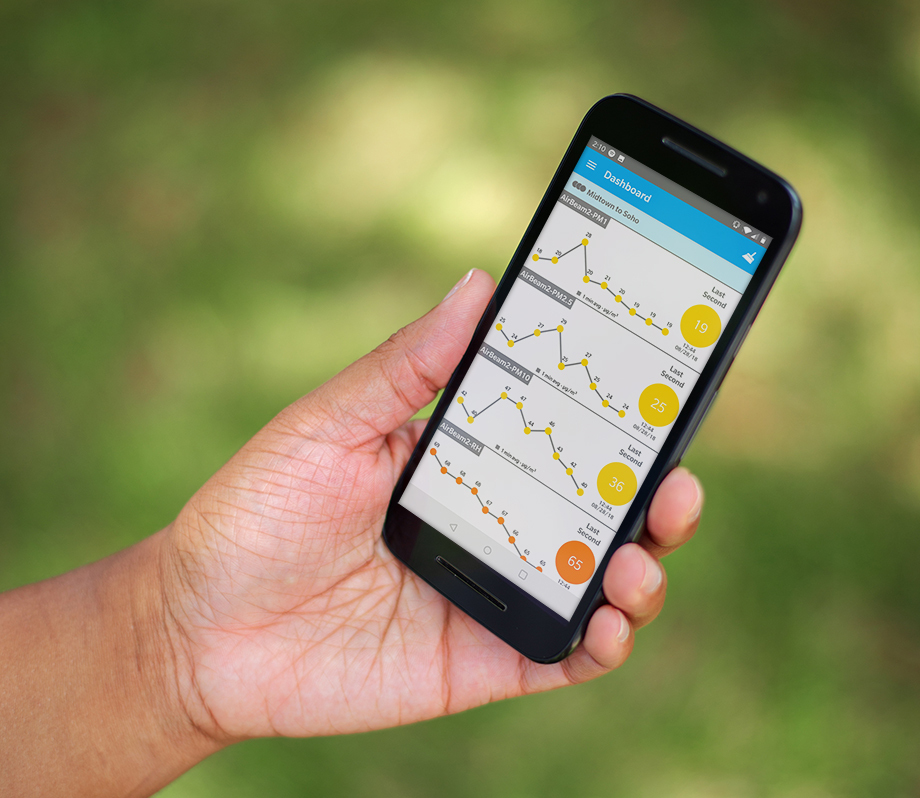
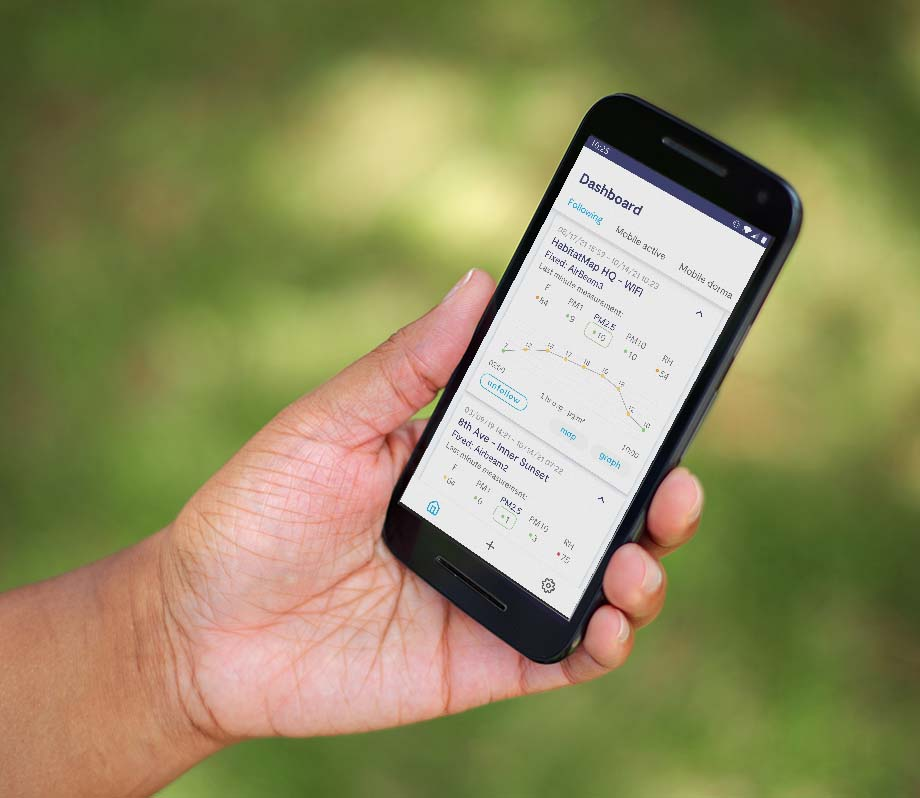
Image updates for ab3 and new app

Changed region(s): [[0.4261, 0.1504, 0.8522, 0.782]]

diff --git a/pages/airbeam/users-guide.md b/pages/airbeam/users-guide.md
@@ -111,18 +111,13 @@ image: /assets/img/about-airbeam-01.jpg
   </h2>
 
   <ol class="list list--ordered p--body">
-    <li>Download the AirCasting app from the Google Play store or Apple App Store.</li>
+    <li>Download the AirCasting app from the <a href='https://play.google.com/store/apps/details?id=pl.llp.aircasting&%3Cli%3Ehl=en&pcampaignid=pcampaignidMKT-Other-global-all-co-prtnr-py-PartBadge-Mar2515-1'>Google Play store</a> or <a href='https://apps.apple.com/us/app/aircasting/id1587685281#?platform=iphone'>Apple App Store.</a></li>
     <li>Launch the app and sign in or create a profile.</li>
     <li>Tap the “+” button at the bottom of the screen then tap “Mobile session” and follow the on screen instructions.</li>
   </ol>
 
   <p class="p--body">
     When recording a mobile session with AirBeam3, measurements are communicated once a second to the AirCasting app via Bluetooth. The device running the AirCasting app must stay within 10-20 feet of the AirBeam3 to maintain the Bluetooth connection and receive data from the AirBeam3. After recording a mobile session for more than 2 hours, your measurements will be integrated into 5-second averages. After recording a mobile session for more than 9 hours, your measurements will be integrated into 1-minute averages.
-  </p>
-
-  <p class="p--body">
-    <a href='https://play.google.com/store/apps/details?id=pl.llp.aircasting&%3Cli%3Ehl=en&pcampaignid=pcampaignidMKT-Other-global-all-co-prtnr-py-PartBadge-Mar2515-1'>Google Play store</a><br>
-    <a href='https://apps.apple.com/us/app/aircasting/id1587685281#?platform=iphone'>Apple App Store</a>
   </p>
 
   <a id="record-wifi" class="anchor">
@@ -132,18 +127,13 @@ image: /assets/img/about-airbeam-01.jpg
   </h2>
 
   <ol class="list list--ordered p--body">
-    <li>Download the AirCasting app from the Google Play store or Apple App Store.</li>
+    <li>Download the AirCasting app from the <a href='https://play.google.com/store/apps/details?id=pl.llp.aircasting&%3Cli%3Ehl=en&pcampaignid=pcampaignidMKT-Other-global-all-co-prtnr-py-PartBadge-Mar2515-1'>Google Play store</a> or <a href='https://apps.apple.com/us/app/aircasting/id1587685281#?platform=iphone'>Apple App Store.</a></li>
     <li>Launch the app and sign in or create a profile.</li>
     <li>Tap the “+” button at the bottom of the screen then tap “Fixed session” and follow the on screen instructions.</li>
   </ol>
 
   <p class="p--body">
     When recording a fixed WiFi session with AirBeam3, the measurements are communicated once a minute to the <a href="http://aircasting.habitatmap.org/fixed_map">AirCasting website</a> via WiFi. The Android or iOS device no longer needs to be in proximity to the AirBeam3 as it’s retrieving the data from the web via the Android or iOS device’s WiFi or cellular connection. AirBeam3 must be connected to the 2.4 GHz band of your WiFi network; it cannot connect via the 5 GHz band.
-  </p>
-
-  <p class="p--body">
-    <a href='https://play.google.com/store/apps/details?id=pl.llp.aircasting&%3Cli%3Ehl=en&pcampaignid=pcampaignidMKT-Other-global-all-co-prtnr-py-PartBadge-Mar2515-1'>Google Play store</a><br>
-    <a href='https://apps.apple.com/us/app/aircasting/id1587685281#?platform=iphone'>Apple App Store</a>
   </p>
 
   <a id="record-cellular" class="anchor">
@@ -154,18 +144,13 @@ image: /assets/img/about-airbeam-01.jpg
 
   <ol class="list list--ordered p--body">
     <li>Unscrew the AirBeam3 enclosure, slide your activated Nano SIM card into the SIM card slot located directly above the power switch (insert the SIM card so the chip side is against the board and the clipped corner is oriented towards the power button), then screw the AirBeam3 together again. To maintain the AirBeam3s weather resistance, screw the bottom two screws tight before tightening the top screw into the aluminum standoff; do not overtighten.</li>
-    <li>Download the AirCasting app from the Google Play store or Apple App Store.</li>
+    <li>Download the AirCasting app from the <a href='https://play.google.com/store/apps/details?id=pl.llp.aircasting&%3Cli%3Ehl=en&pcampaignid=pcampaignidMKT-Other-global-all-co-prtnr-py-PartBadge-Mar2515-1'>Google Play store</a> or <a href='https://apps.apple.com/us/app/aircasting/id1587685281#?platform=iphone'>Apple App Store.</a></li>
     <li>Launch the app and sign in or create a profile.</li>
     <li>Tap the “+” button at the bottom of the screen then tap “Fixed session” and follow the on screen instructions.</li>
   </ol>
 
    <p class="p--body">
-    When recording a fixed cellular session, the measurements are communicated once a minute to the <a href="http://aircasting.habitatmap.org/fixed_map">AirCasting website</a> via WiFi. The Android or iOS device no longer needs to be in proximity to the AirBeam3 as it’s retrieving the data from the web via the Android or IOS device’s WiFi or cellular connection. AirBeam3 data and messaging costs are approximately $25 per month when using a Ting SIM card.
-  </p>
-
-  <p class="p--body">
-    <a href='https://play.google.com/store/apps/details?id=pl.llp.aircasting&%3Cli%3Ehl=en&pcampaignid=pcampaignidMKT-Other-global-all-co-prtnr-py-PartBadge-Mar2515-1'>Google Play store</a><br>
-    <a href='https://apps.apple.com/us/app/aircasting/id1587685281#?platform=iphone'>Apple App Store</a>
+    When recording a fixed cellular session, the measurements are communicated once a minute to the <a href="http://aircasting.habitatmap.org/fixed_map">AirCasting website</a> via the 4G cellular network. The Android or iOS device no longer needs to be in proximity to the AirBeam3 as it’s retrieving the data from the web via the Android or IOS device’s WiFi or cellular connection. AirBeam3 data and messaging costs are approximately $25 per month when using a Ting SIM card.
   </p>
 
   <a id="connection" class="anchor">

diff --git a/pages/airbeam/how-it-works.md b/pages/airbeam/how-it-works.md
@@ -61,7 +61,7 @@ section: airbeam
         <span class="heading--capitilized">Measure</span>
       </h2>
       <p class="p--body">
-        The AirBeam communicates these measurements to the AirCasting Android App (available from the <a href="https://play.google.com/store/apps/details?id=pl.llp.aircasting&hl=en_US">Google Play Store</a> & <a href="https://apps.apple.com/us/app/aircasting/id1587685281#?platform=iphone">Apple App Store</a>) where your measurements are mapped and graphed in real-time on your smartphone.
+        The AirBeam communicates these measurements to the AirCasting App (available from the <a href="https://play.google.com/store/apps/details?id=pl.llp.aircasting&hl=en_US">Google Play Store</a> & <a href="https://apps.apple.com/us/app/aircasting/id1587685281#?platform=iphone">Apple App Store</a>) where your measurements are mapped and graphed in real-time on your smartphone.
       </p>
     </article>
   </div>
@@ -76,7 +76,7 @@ section: airbeam
       </h2>
       <img class="logo logo--body" alt="AirCasting logo" src="/assets/img/svg/Aircasting-Logo-Body.svg" />
       <p class="p--body">
-        When used in mobile, the AirBeam communicates measurements to the Android device every second via Bluetooth. When used as a fixed instrument, the AirBeam communicates measurements directly to the AirCasting website every minute via either the WiFi or cellular network. AirBeam also includes an onboard GPS, clock, SD card, and battery, so it can operate in standalone mode and log data without being connected to a smartphone, WiFi, or cellular network.
+        In mobile mode, the AirBeam communicates measurements to the Android device every second via Bluetooth. In fixed mode, the AirBeam communicates measurements directly to the AirCasting website every minute via either the WiFi or cellular network. AirBeam also includes an onboard GPS, clock, and SD card so it can operate in standalone mode and log data without being connected to a smartphone, WiFi, or cellular network.
       </p>
     </article>
     <article class="container--narrow u--margin-top-big">
